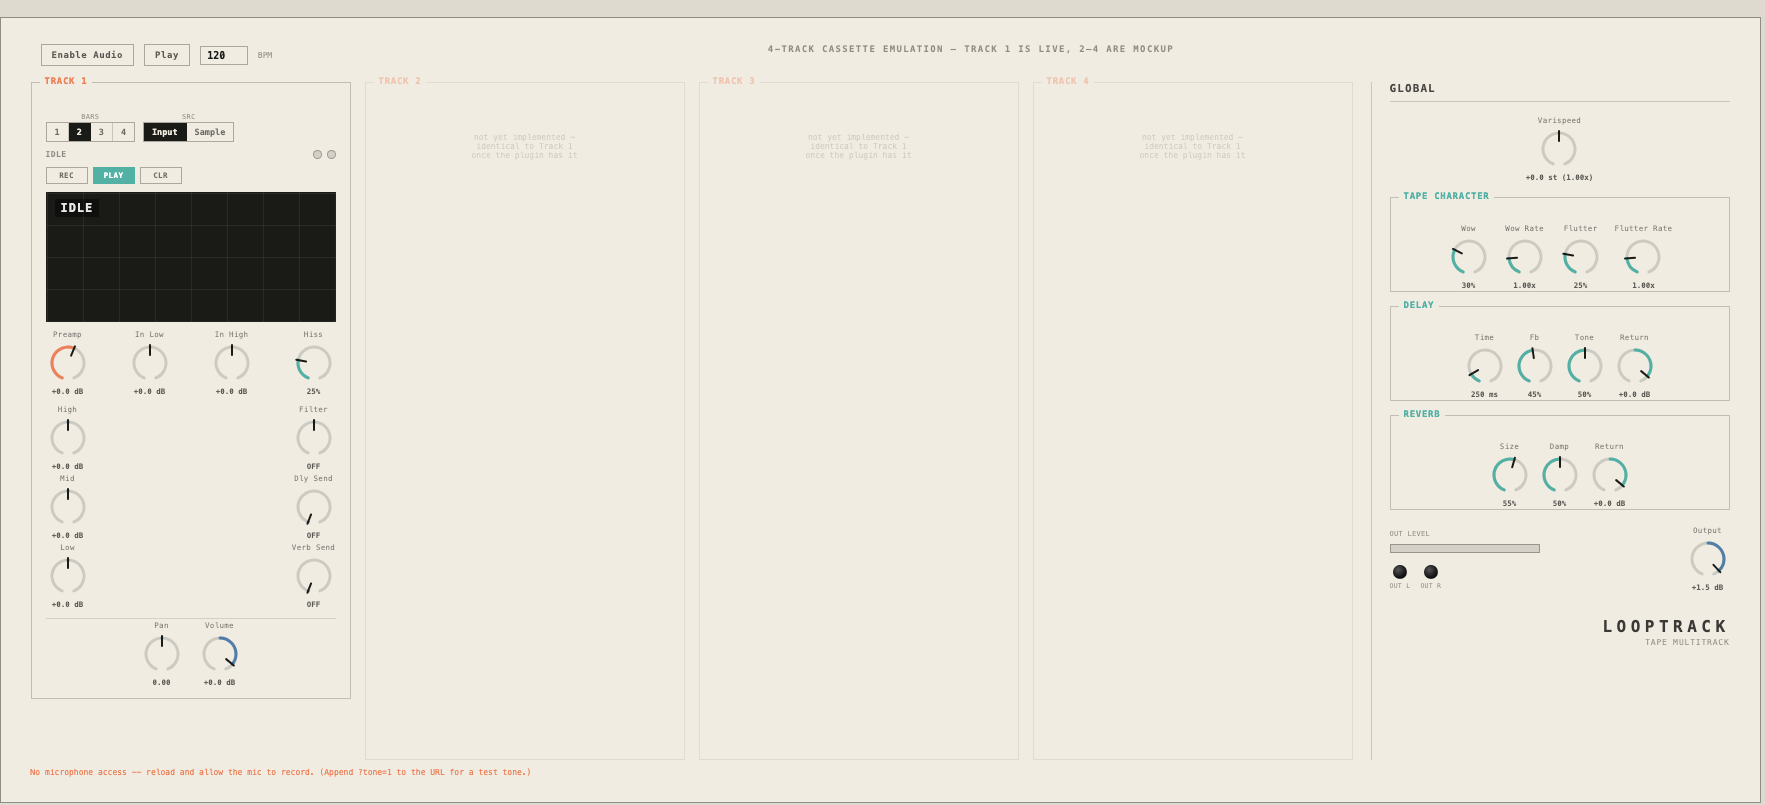
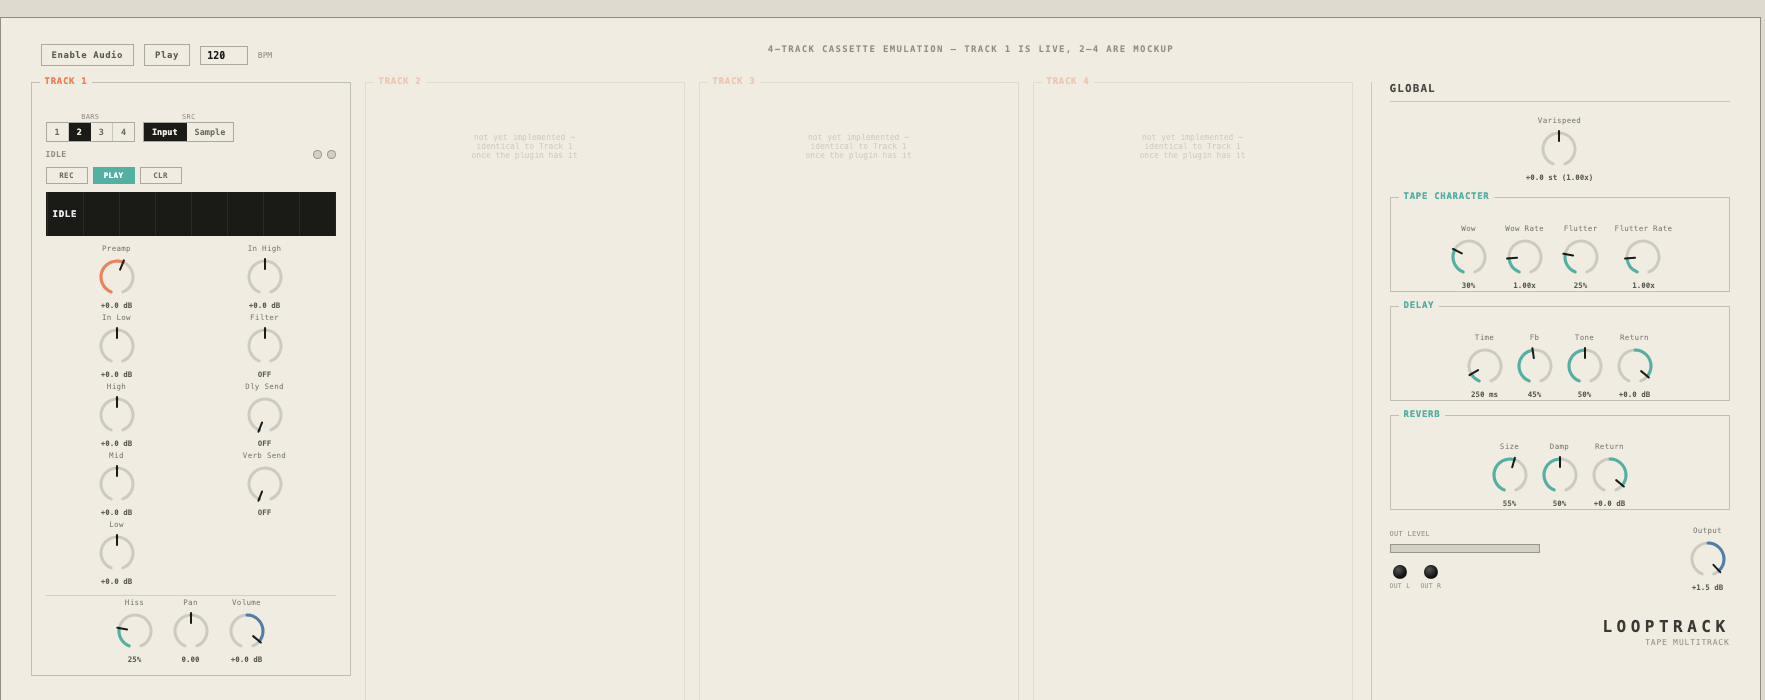
Rename the plug-in to Looptrack; rework the track panel layout
The plug-in is now Looptrack, not Tape Machine: product name, bundle id
(com.sungam.looptrack), AU/VST3 plugin code (Lptk), and the processor and
editor class names. The old Tp41 code and "Tape Machine" bundles are
retired -- hosts will see this as a new plug-in, which is the honest
outcome of a rename at v0.1.x.

Track panel is now two stacked columns instead of rows, matching the
sketch: Preamp above In Low with the track EQ (High/Mid/Low) directly
under it, and In High above Filter / Dly Send / Verb Send. Hiss joins Pan
and Volume on the bottom row -- it is the one knob the sketch does not
place, and it is tape character rather than input trim, so it sits with
the output controls rather than in either input column.

The loop strip is a thin 44px band rather than a 130px block.

Verified: clean rebuild, dsp_check 14/14, auval passes under the new code
(and correctly no longer finds the old one), universal arm64+x86_64.

diff --git a/web/app.js b/web/app.js
@@ -66,41 +66,40 @@ function buildTrack1 (engine) {
 
   const loopView = createLoopView();
 
-  const knobRow1 = document.createElement('div');
-  knobRow1.style.cssText = 'display:flex;justify-content:space-between;gap:2px';
+  // Two columns, each stacked in signal order. Left: the input trim and
+  // what it feeds -- Preamp above In Low, with the track EQ directly under
+  // it (high at the top, so frequency runs up the column). Right: In High
+  // above the filter and the two sends.
+  const knobCols = document.createElement('div');
+  knobCols.style.cssText = 'display:flex;justify-content:space-around;gap:6px';
+
+  const leftCol = document.createElement('div');
+  leftCol.style.cssText = 'display:flex;flex-direction:column;align-items:center;gap:2px';
   const preampK = createKnob({ label: 'Preamp', min: -24, max: 18, value: 0, format: db, color: '#ed8159', onChange: (v) => engine.setPreamp(v) });
   const inLowK = createKnob({ label: 'In Low', min: -12, max: 12, value: 0, format: db, bipolar: true, color: '#ed8159', onChange: (v) => engine.setInLow(v) });
-  const inHighK = createKnob({ label: 'In High', min: -12, max: 12, value: 0, format: db, bipolar: true, color: '#ed8159', onChange: (v) => engine.setInHigh(v) });
-  const hissK = createKnob({ label: 'Hiss', min: 0, max: 1, value: 0.25, format: pct, color: '#52b0a4', onChange: (v) => engine.setHiss(v) });
-  knobRow1.append(preampK.el, inLowK.el, inHighK.el, hissK.el);
-
-  const eqRow = document.createElement('div');
-  eqRow.style.cssText = 'display:flex;justify-content:space-between;gap:6px';
-
-  // high at the top, low at the bottom -- frequency runs up the column
-  const eqCol = document.createElement('div');
-  eqCol.style.cssText = 'display:flex;flex-direction:column;gap:2px';
   const highK = createKnob({ label: 'High', min: -18, max: 18, value: 0, format: db, bipolar: true, color: '#4f7ea8', onChange: (v) => engine.setEqHigh(v) });
   const midK = createKnob({ label: 'Mid', min: -18, max: 18, value: 0, format: db, bipolar: true, color: '#4f7ea8', onChange: (v) => engine.setEqMid(v) });
   const lowK = createKnob({ label: 'Low', min: -18, max: 18, value: 0, format: db, bipolar: true, color: '#4f7ea8', onChange: (v) => engine.setEqLow(v) });
-  eqCol.append(highK.el, midK.el, lowK.el);
+  leftCol.append(preampK.el, inLowK.el, highK.el, midK.el, lowK.el);
 
-  const fxCol = document.createElement('div');
-  fxCol.style.cssText = 'display:flex;flex-direction:column;gap:2px';
+  const rightCol = document.createElement('div');
+  rightCol.style.cssText = 'display:flex;flex-direction:column;align-items:center;gap:2px';
+  const inHighK = createKnob({ label: 'In High', min: -12, max: 12, value: 0, format: db, bipolar: true, color: '#ed8159', onChange: (v) => engine.setInHigh(v) });
   const filterK = createKnob({ label: 'Filter', min: -1, max: 1, value: 0, format: filterText, bipolar: true, color: '#4f7ea8', onChange: (v) => engine.setFilter(v) });
   const sendDlyK = createKnob({ label: 'Dly Send', min: -60, max: 0, value: -60, format: db, color: '#4f7ea8', onChange: (v) => engine.setSendDelay(v) });
   const sendRevK = createKnob({ label: 'Verb Send', min: -60, max: 0, value: -60, format: db, color: '#4f7ea8', onChange: (v) => engine.setSendReverb(v) });
-  fxCol.append(filterK.el, sendDlyK.el, sendRevK.el);
+  rightCol.append(inHighK.el, filterK.el, sendDlyK.el, sendRevK.el);
 
-  eqRow.append(eqCol, fxCol);
+  knobCols.append(leftCol, rightCol);
 
   const bottomRow = document.createElement('div');
-  bottomRow.style.cssText = 'display:flex;justify-content:center;gap:14px;padding-top:2px;border-top:1px solid var(--ink-13)';
+  bottomRow.style.cssText = 'display:flex;justify-content:center;gap:12px;padding-top:2px;border-top:1px solid var(--ink-13)';
+  const hissK = createKnob({ label: 'Hiss', min: 0, max: 1, value: 0.25, format: pct, color: '#52b0a4', onChange: (v) => engine.setHiss(v) });
   const panK = createKnob({ label: 'Pan', min: -1, max: 1, value: 0, format: panText, bipolar: true, color: '#4f7ea8', onChange: (v) => engine.setPan(v) });
   const volumeK = createKnob({ label: 'Volume', min: -60, max: 6, value: 0, format: db, bipolar: true, color: '#4f7ea8', onChange: (v) => engine.setVolume(v) });
-  bottomRow.append(panK.el, volumeK.el);
+  bottomRow.append(hissK.el, panK.el, volumeK.el);
 
-  body.append(selRow, stateRow, latchRow, loopView.el, knobRow1, eqRow, bottomRow);
+  body.append(selRow, stateRow, latchRow, loopView.el, knobCols, bottomRow);
 
   engine.onStateChange(() => {
     const st = engine.state;

diff --git a/web/components.js b/web/components.js
@@ -212,7 +212,7 @@ export function createLoopView () {
   head.className = 'lt-wave-head';
   head.style.display = 'none';
   const label = document.createElement('div');
-  label.style.cssText = 'position:absolute;top:6px;left:8px;font:700 12px var(--font-mono);letter-spacing:.08em;color:rgba(255,255,255,0.9);background:rgba(0,0,0,0.4);padding:2px 6px;';
+  label.style.cssText = 'position:absolute;top:50%;transform:translateY(-50%);left:6px;font:700 9px var(--font-mono);letter-spacing:.08em;color:rgba(255,255,255,0.9);';
   el.append(fill, head, label);
 
   function update ({ state, filledFrac, headFrac }) {

diff --git a/web/style.css b/web/style.css
@@ -193,11 +193,10 @@ a:hover { color: var(--coral); }
   background: var(--ink);
   border: 1px solid var(--ink-38);
   overflow: hidden;
-  height: 130px;
+  height: 44px;
   background-image:
-    linear-gradient(to right, rgba(255,255,255,0.07) 1px, transparent 1px),
-    linear-gradient(to bottom, rgba(255,255,255,0.07) 1px, transparent 1px);
-  background-size: 12.5% 100%, 100% 25%;
+    linear-gradient(to right, rgba(255,255,255,0.07) 1px, transparent 1px);
+  background-size: 12.5% 100%;
 }
 
 .lt-wave-bars {

diff --git a/Source/PluginProcessor.cpp b/Source/PluginProcessor.cpp
@@ -3,7 +3,7 @@
 
 #include <cmath>
 
-TapeMachineProcessor::TapeMachineProcessor()
+LooptrackProcessor::LooptrackProcessor()
     : AudioProcessor (BusesProperties()
                            .withInput ("Input", juce::AudioChannelSet::stereo(), true)
                            .withOutput ("Output", juce::AudioChannelSet::stereo(), true)),
@@ -42,7 +42,7 @@ TapeMachineProcessor::TapeMachineProcessor()
     t0.sendReverb = apvts.getRawParameterValue (tape::trackParamId (0, tape::track::sendReverb));
 }
 
-void TapeMachineProcessor::prepareToPlay (double sampleRate, int samplesPerBlock)
+void LooptrackProcessor::prepareToPlay (double sampleRate, int samplesPerBlock)
 {
     outGain.reset (sampleRate, 0.02);
     outGain.setCurrentAndTargetValue (juce::Decibels::decibelsToGain (outParam->load()));
@@ -61,7 +61,7 @@ void TapeMachineProcessor::prepareToPlay (double sampleRate, int samplesPerBlock
     sendReverbAcc.setSize (1, samplesPerBlock, false, true, true);
 }
 
-bool TapeMachineProcessor::isBusesLayoutSupported (const BusesLayout& layouts) const
+bool LooptrackProcessor::isBusesLayoutSupported (const BusesLayout& layouts) const
 {
     auto in = layouts.getMainInputChannelSet();
     auto out = layouts.getMainOutputChannelSet();
@@ -70,7 +70,7 @@ bool TapeMachineProcessor::isBusesLayoutSupported (const BusesLayout& layouts) c
     return in == juce::AudioChannelSet::mono() || in == juce::AudioChannelSet::stereo();
 }
 
-void TapeMachineProcessor::processBlock (juce::AudioBuffer<float>& buffer, juce::MidiBuffer&)
+void LooptrackProcessor::processBlock (juce::AudioBuffer<float>& buffer, juce::MidiBuffer&)
 {
     juce::ScopedNoDenormals noDenormals;
 
@@ -166,19 +166,19 @@ void TapeMachineProcessor::processBlock (juce::AudioBuffer<float>& buffer, juce:
     juce::ignoreUnused (t0.source);
 }
 
-juce::AudioProcessorEditor* TapeMachineProcessor::createEditor()
+juce::AudioProcessorEditor* LooptrackProcessor::createEditor()
 {
-    return new TapeMachineEditor (*this);
+    return new LooptrackEditor (*this);
 }
 
-void TapeMachineProcessor::getStateInformation (juce::MemoryBlock& destData)
+void LooptrackProcessor::getStateInformation (juce::MemoryBlock& destData)
 {
     if (auto state = apvts.copyState(); state.isValid())
         if (auto xml = state.createXml())
             copyXmlToBinary (*xml, destData);
 }
 
-void TapeMachineProcessor::setStateInformation (const void* data, int sizeInBytes)
+void LooptrackProcessor::setStateInformation (const void* data, int sizeInBytes)
 {
     if (auto xml = getXmlFromBinary (data, sizeInBytes))
         apvts.replaceState (juce::ValueTree::fromXml (*xml));
@@ -186,5 +186,5 @@ void TapeMachineProcessor::setStateInformation (const void* data, int sizeInByte
 
 juce::AudioProcessor* JUCE_CALLTYPE createPluginFilter()
 {
-    return new TapeMachineProcessor();
+    return new LooptrackProcessor();
 }

diff --git a/Source/PluginProcessor.h b/Source/PluginProcessor.h
@@ -23,11 +23,11 @@ struct PanelState
     std::atomic<bool> inputStageActive { true };   // false once a loop is playing back
 };
 
-class TapeMachineProcessor final : public juce::AudioProcessor
+class LooptrackProcessor final : public juce::AudioProcessor
 {
 public:
-    TapeMachineProcessor();
-    ~TapeMachineProcessor() override = default;
+    LooptrackProcessor();
+    ~LooptrackProcessor() override = default;
 
     void prepareToPlay (double sampleRate, int samplesPerBlock) override;
     void releaseResources() override {}
@@ -37,7 +37,7 @@ public:
     juce::AudioProcessorEditor* createEditor() override;
     bool hasEditor() const override { return true; }
 
-    const juce::String getName() const override { return "Tape Machine"; }
+    const juce::String getName() const override { return "Looptrack"; }
     bool acceptsMidi() const override { return false; }
     bool producesMidi() const override { return false; }
     bool isMidiEffect() const override { return false; }
@@ -105,5 +105,5 @@ private:
 
     juce::AudioBuffer<float> sendDelayAcc, sendReverbAcc;
 
-    JUCE_DECLARE_NON_COPYABLE_WITH_LEAK_DETECTOR (TapeMachineProcessor)
+    JUCE_DECLARE_NON_COPYABLE_WITH_LEAK_DETECTOR (LooptrackProcessor)
 };

diff --git a/tools/panel_shot.cpp b/tools/panel_shot.cpp
@@ -31,13 +31,13 @@ struct FakePlayHead : public juce::AudioPlayHead
     bool isPlaying = true;
 };
 
-void setNorm (TapeMachineProcessor& p, const juce::String& id, float norm)
+void setNorm (LooptrackProcessor& p, const juce::String& id, float norm)
 {
     if (auto* param = p.apvts.getParameter (id))
         param->setValueNotifyingHost (norm);
 }
 
-void setValue (TapeMachineProcessor& p, const juce::String& id, float value)
+void setValue (LooptrackProcessor& p, const juce::String& id, float value)
 {
     if (auto* param = p.apvts.getParameter (id))
         param->setValueNotifyingHost (param->convertTo0to1 (value));
@@ -54,7 +54,7 @@ int main (int argc, char** argv)
     const double sr = 48000.0;
     const int blockSize = 256;
 
-    TapeMachineProcessor proc;
+    LooptrackProcessor proc;
     FakePlayHead playHead;
     proc.setPlayHead (&playHead);
     proc.setRateAndBufferSizeDetails (sr, blockSize);

diff --git a/Source/PluginEditor.h b/Source/PluginEditor.h
@@ -7,10 +7,10 @@
 
 /** Loop visualization on top, the generic parameter list below -- swapped
     for a real panel once the DSP is proven out (build checklist step 10). */
-class TapeMachineEditor final : public juce::AudioProcessorEditor
+class LooptrackEditor final : public juce::AudioProcessorEditor
 {
 public:
-    explicit TapeMachineEditor (TapeMachineProcessor& p)
+    explicit LooptrackEditor (LooptrackProcessor& p)
         : juce::AudioProcessorEditor (p), loopView (p), paramList (p)
     {
         addAndMakeVisible (loopView);

diff --git a/Source/LoopView.h b/Source/LoopView.h
@@ -13,7 +13,7 @@
 class LoopView final : public juce::Component, private juce::Timer
 {
 public:
-    explicit LoopView (TapeMachineProcessor& p) : processor (p)
+    explicit LoopView (LooptrackProcessor& p) : processor (p)
     {
         startTimerHz (30);
     }
@@ -76,5 +76,5 @@ private:
 
     void timerCallback() override { repaint(); }
 
-    TapeMachineProcessor& processor;
+    LooptrackProcessor& processor;
 };

diff --git a/README.md b/README.md
@@ -38,7 +38,7 @@ quarantined, and Gatekeeper then refuses to load the plug-in — usually
 installing:
 
 ```sh
-xattr -dr com.apple.quarantine ~/Library/Audio/Plug-Ins/VST3/"Tape Machine.vst3" ~/Library/Audio/Plug-Ins/Components/"Tape Machine.component"
+xattr -dr com.apple.quarantine ~/Library/Audio/Plug-Ins/VST3/Looptrack.vst3 ~/Library/Audio/Plug-Ins/Components/Looptrack.component
 ```
 
 Then restart your host and rescan. Building from source avoids this
@@ -55,9 +55,9 @@ altogether — a plug-in you compile yourself is never quarantined.
   recording starts the instant playback begins, no bar-boundary wait. Arm
   while already playing and it quantizes to the next bar — a standard
   punch-in.
-- **Varispeed**: the global Speed knob resamples the loop's own playback
-  head, so pitch and speed move together like a real reel, not an
-  independent pitch-shifter.
+- **Varispeed**: the global knob resamples the loop's own playback head, so
+  pitch and speed move together like a real reel, not an independent
+  pitch-shifter.
 - **Signal chain**: input → 2-band shelf EQ → preamp (clean below 0dB,
   blends in tape-style drive above it) → the tape (record/loop) →
   wow/flutter → hiss → 3-band EQ → DJ filter → volume fader → pan → two
@@ -100,7 +100,7 @@ AU and the standalone into your user plug-in folders, and produces universal
 ### Dev tools
 
 ```sh
-cmake -S . -B build -DCMAKE_BUILD_TYPE=Release -DTAPE_TOOLS=ON
+cmake -S . -B build -DCMAKE_BUILD_TYPE=Release -DLOOPTRACK_TOOLS=ON
 cmake --build build --target dsp_check panel_shot -j8
 
 ./build/dsp_check_artefacts/Release/dsp_check     # record/loop/varispeed correctness, headless
